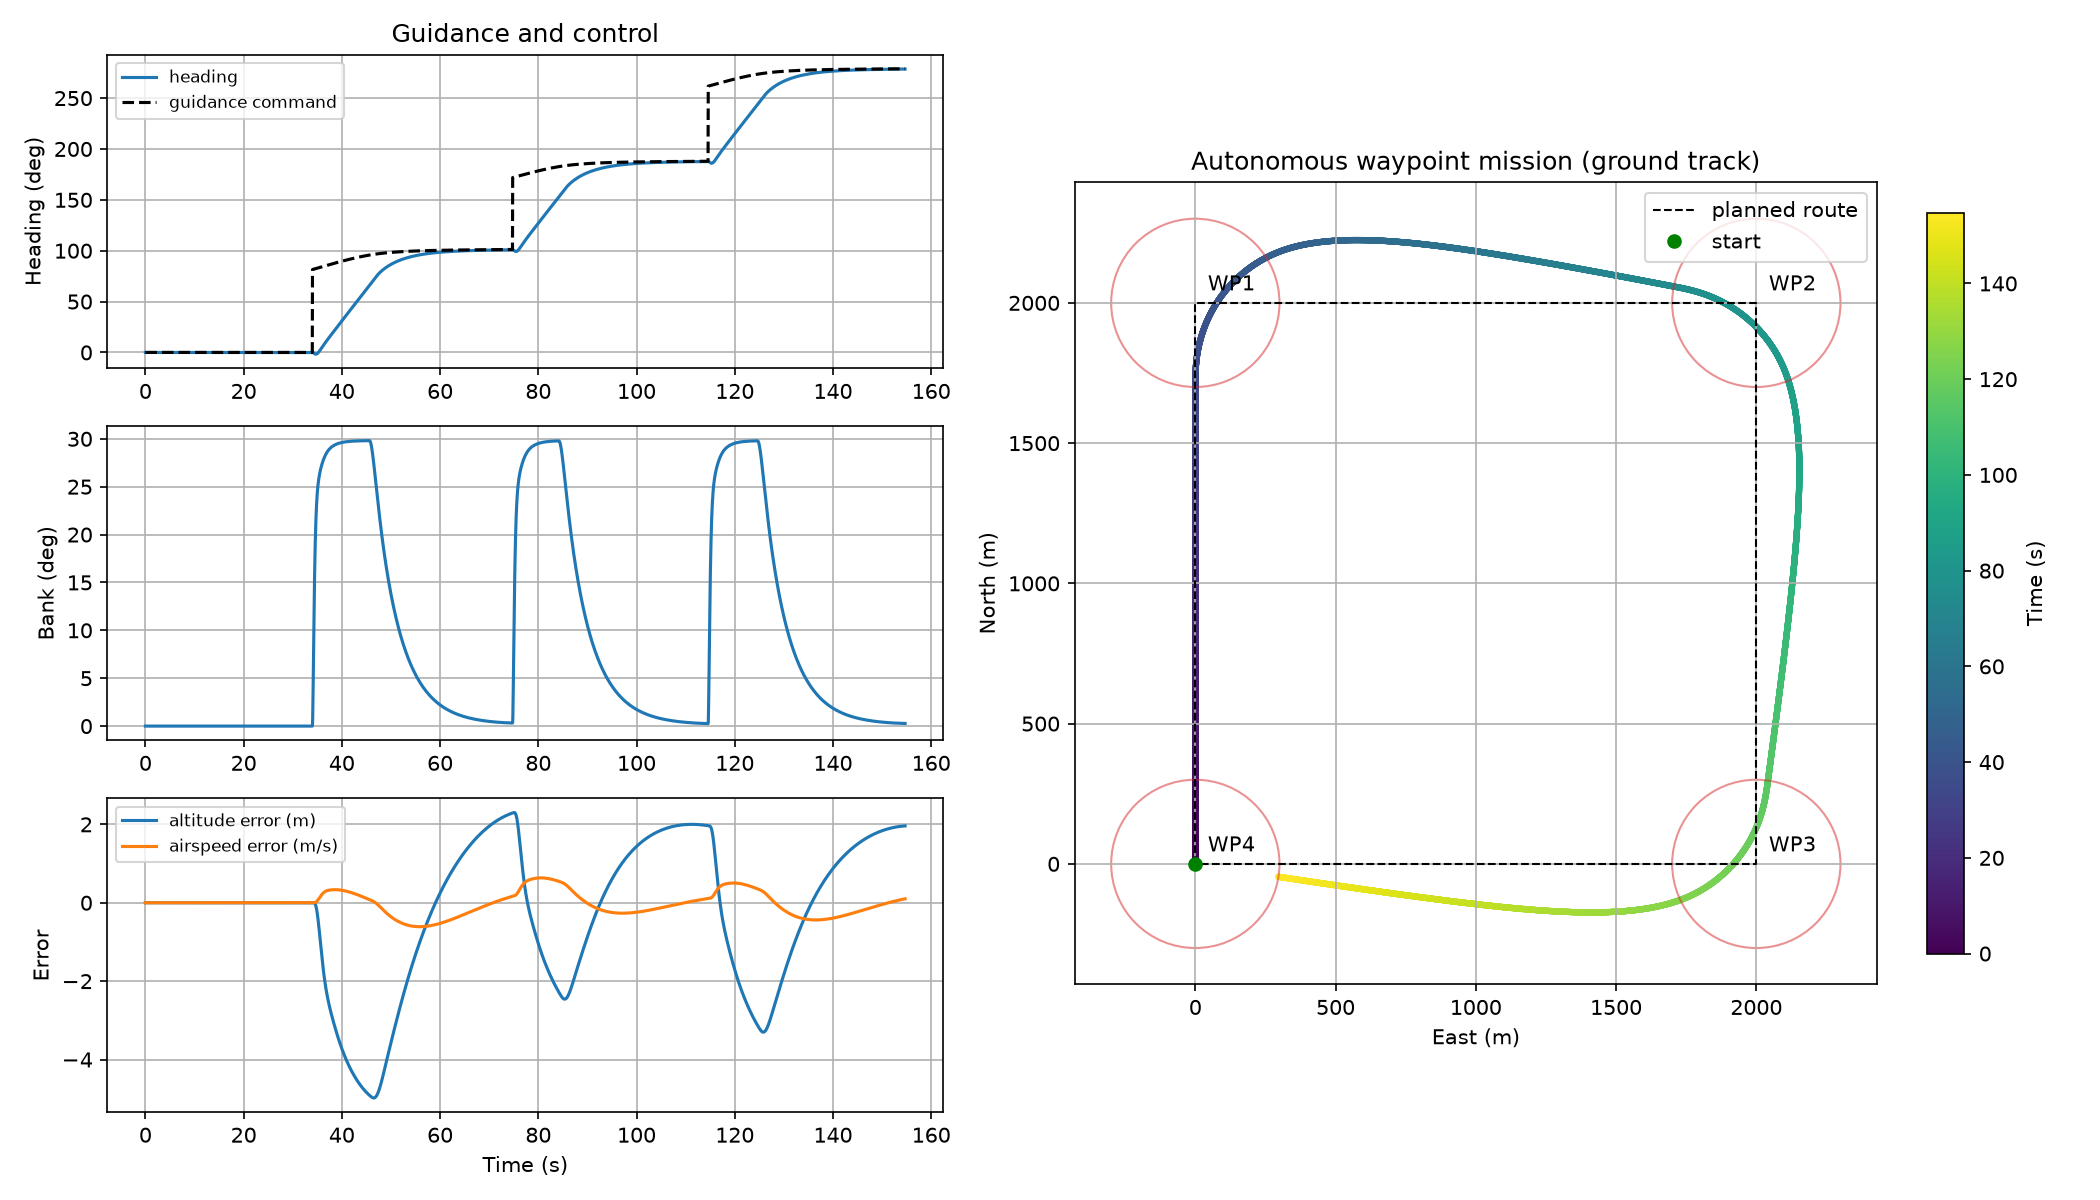
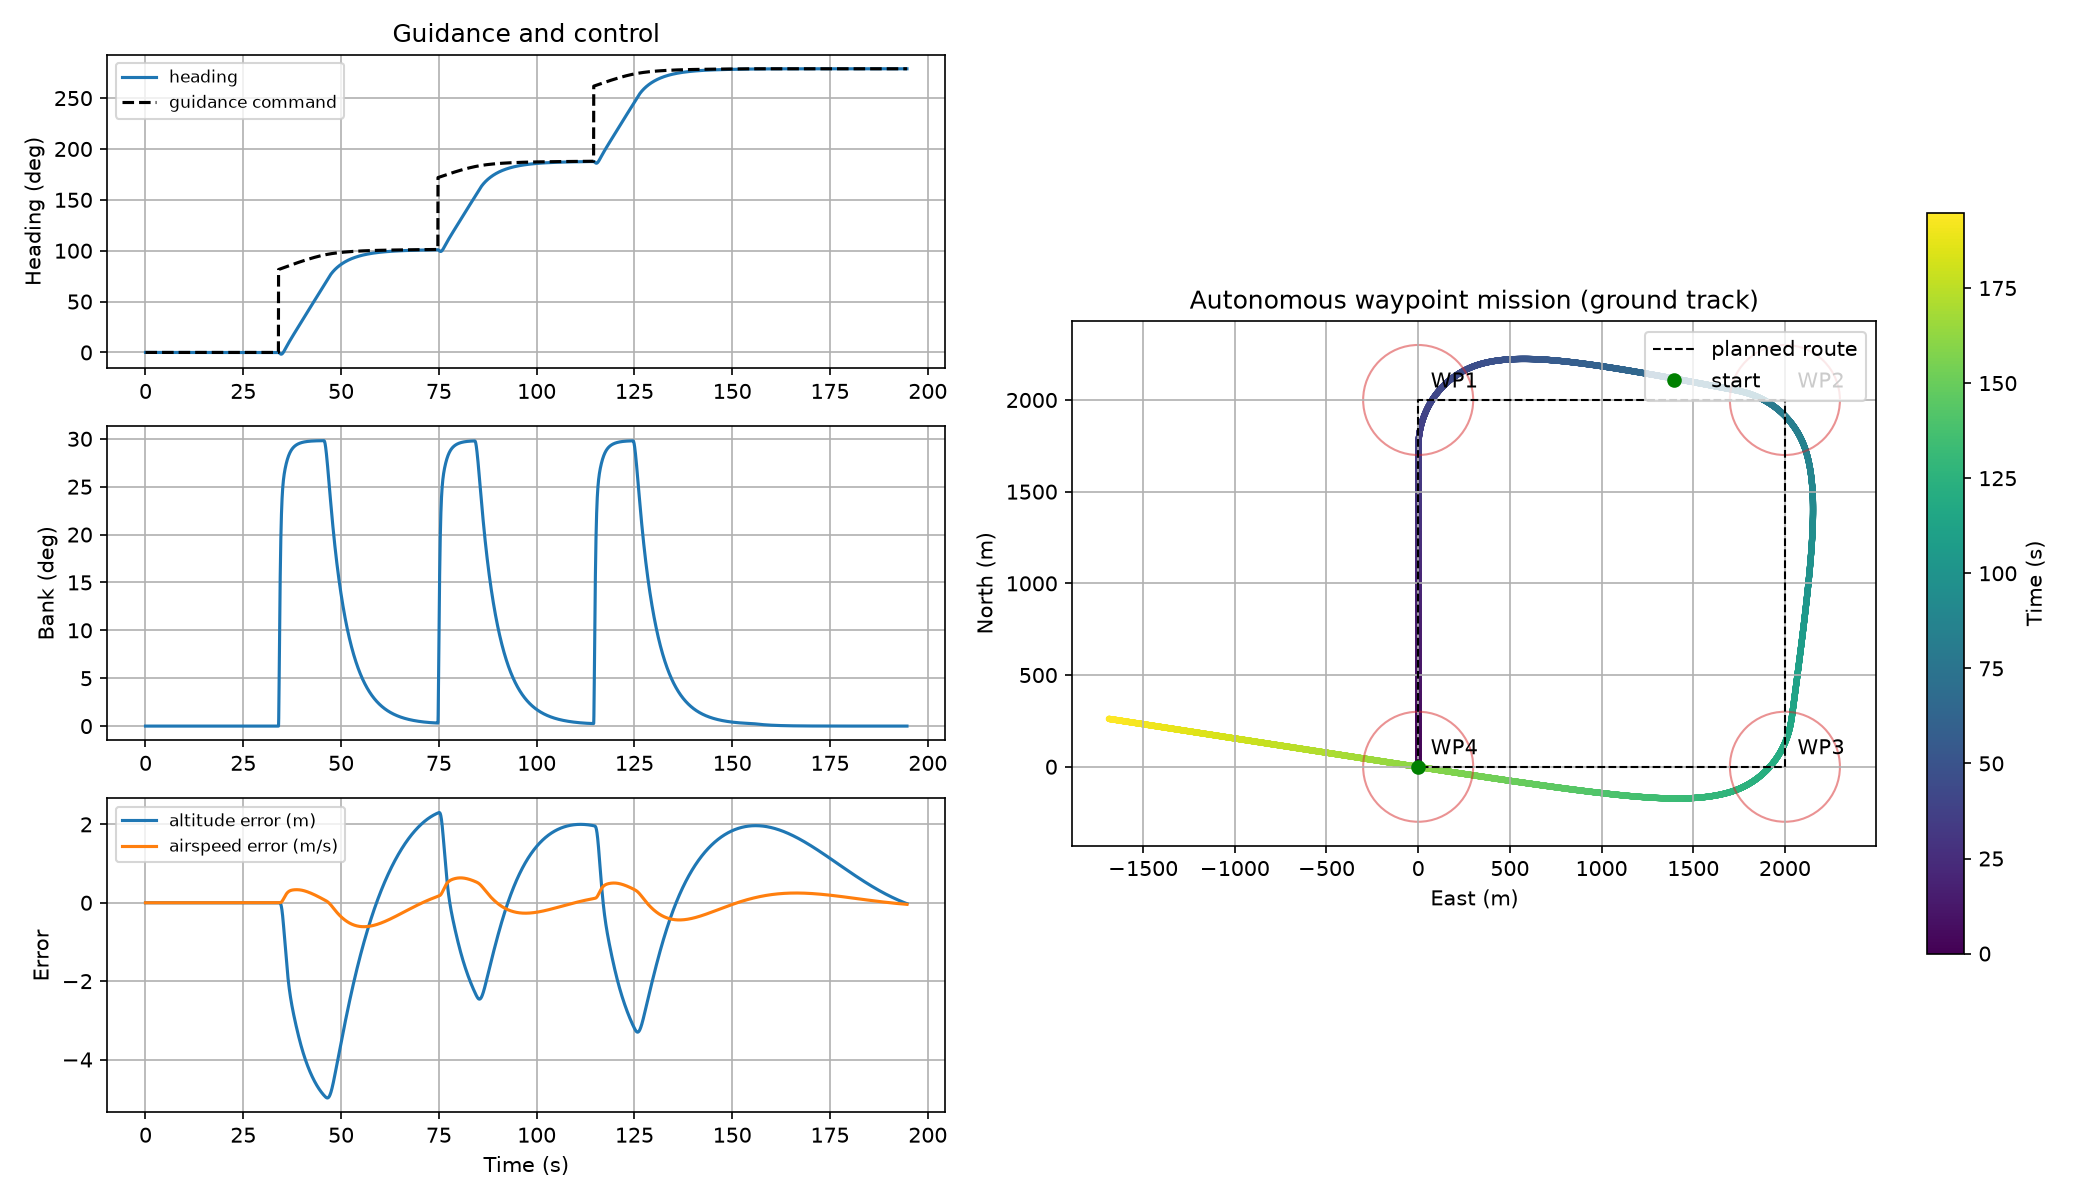
Report true closest approach and cross-track error in waypoint mission

diff --git a/examples/waypoint_mission.py b/examples/waypoint_mission.py
@@ -16,7 +16,7 @@ from uavsim.lateral import LateralAutopilot
 ALT = 1000.0
 SPD = 50.0
 DT = 0.02
-T_MAX = 400.0
+T_MAX = 400.0; T_EXTRA = 40.0
 WAYPOINTS = np.array([[2000.0, 0.0], [2000.0, 2000.0], [0.0, 2000.0], [0.0, 0.0]])
 CAPTURE = 300.0
 
@@ -33,7 +33,7 @@ def main():
 
     for i in range(int(T_MAX / DT)):
         t = i * DT
-        if nav.done:
+        if nav.done and t > nav.captures[-1][1] + T_EXTRA:
             break
         phi, _, psi = quat.to_euler(y[6:10])
         lat.target_heading = nav.heading_command(y[0], y[1], t)
@@ -56,9 +56,23 @@ def main():
 
     d = {k: np.array(v) for k, v in log.items()}
 
-    print(f"Mission {'completed' if nav.done else 'NOT completed'} in {d['t'][-1]:.1f} s")
+    print(f"Mission {'completed' if nav.done else 'NOT completed'} in {nav.captures[-1][1]:.1f} s")
     for idx, tc, miss in nav.captures:
         print(f"  WP{idx + 1} {WAYPOINTS[idx].astype(int).tolist()} | captured at {tc:6.1f} s | closest approach {miss:6.1f} m")
+    pts = np.column_stack([d["pn"], d["pe"]])
+    starts = np.vstack([[0.0, 0.0], WAYPOINTS[:-1]])
+    print("Waypoint accuracy (true closest approach, cross-track on leg):")
+    for k, (wp, s) in enumerate(zip(WAYPOINTS, starts)):
+        t0 = 0.0 if k == 0 else nav.captures[k - 1][1]
+        t1 = nav.captures[k][1]
+        after = d["t"] >= t0
+        dist = np.hypot(pts[after, 0] - wp[0], pts[after, 1] - wp[1])
+        seg = (d["t"] >= t0) & (d["t"] <= t1)
+        leg = wp - s
+        length = np.hypot(leg[0], leg[1])
+        rel = pts[seg] - s
+        xt = (rel[:, 0] * leg[1] - rel[:, 1] * leg[0]) / length
+        print(f"  WP{k + 1} | true closest approach {dist.min():6.1f} m | max cross-track on leg {np.abs(xt).max():6.1f} m")
     print(f"Max bank angle:  {np.abs(d['phi']).max():.1f} deg")
     print(f"Altitude range:  {d['alt'].min():.1f} .. {d['alt'].max():.1f} m")
     print(f"Airspeed range: {d['spd'].min():.1f} .. {d['spd'].max():.1f} m/s")
@@ -109,3 +123,4 @@ def main():
 
 if __name__ == "__main__":
     main()
+
